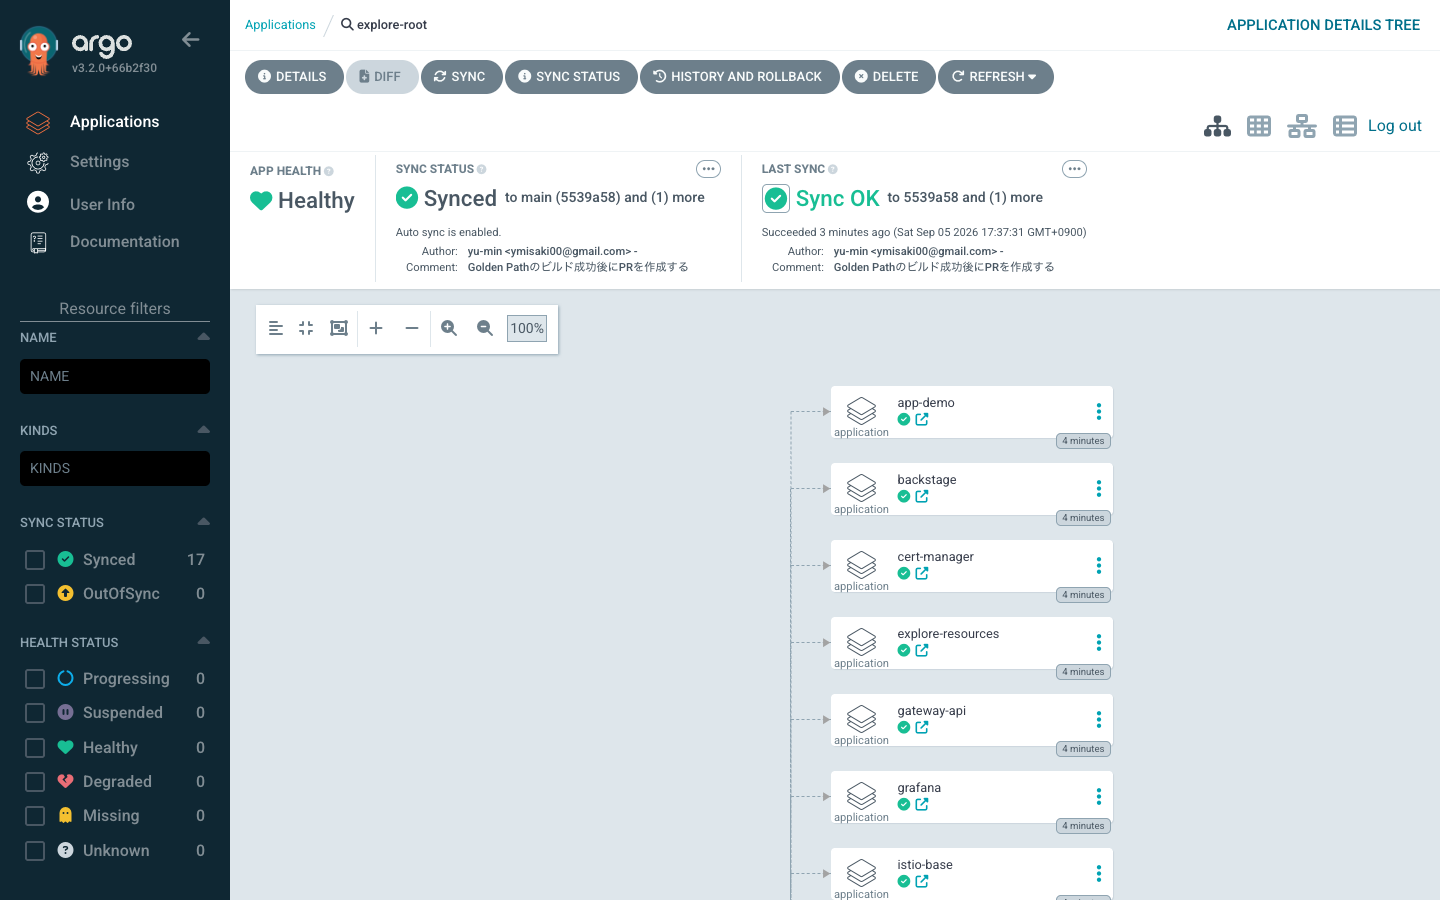
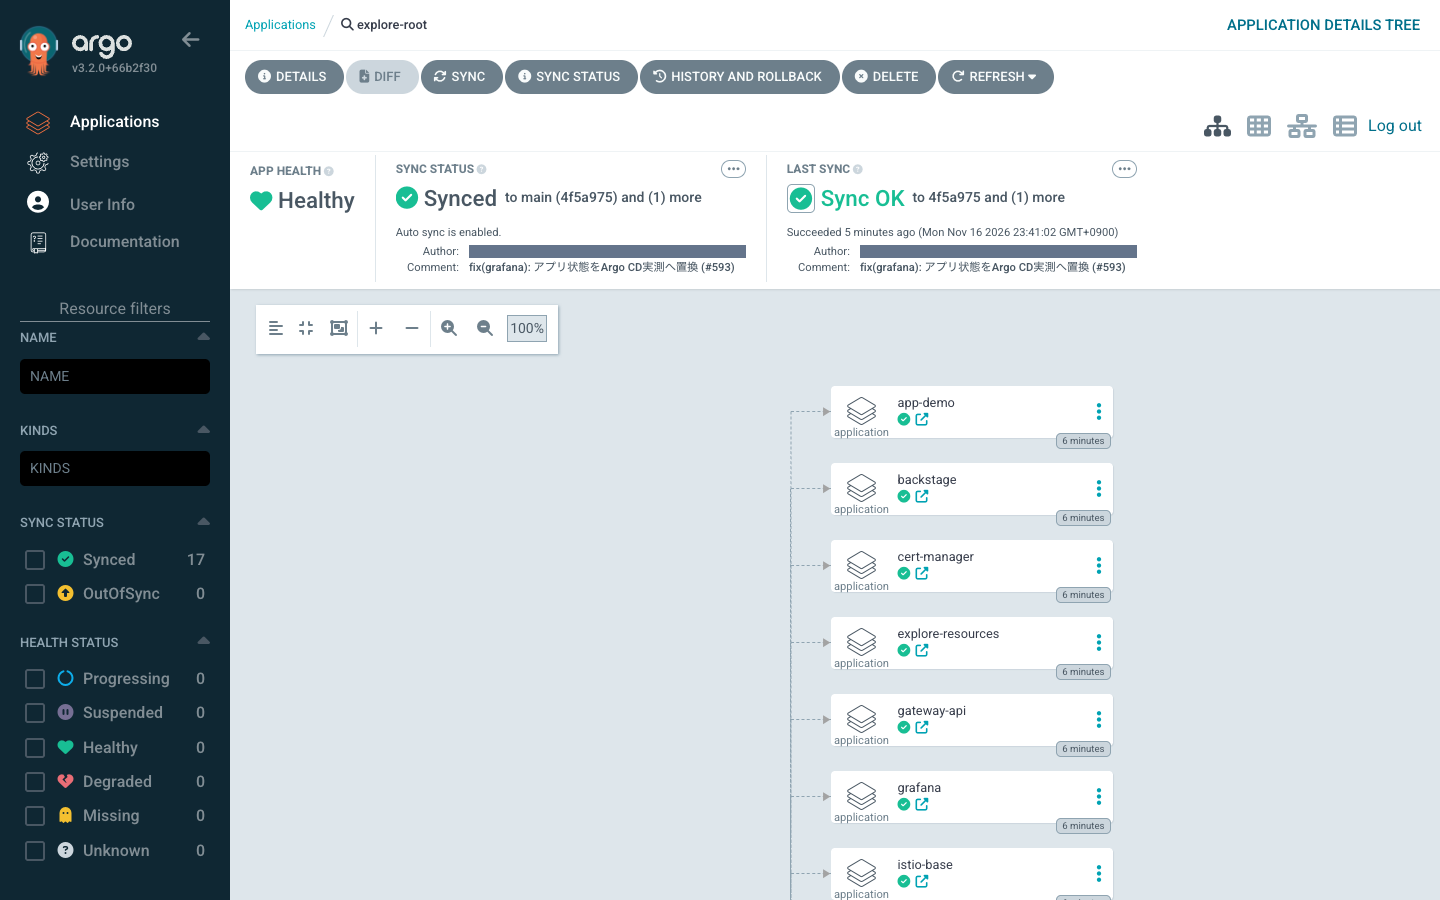
docs: walkthroughの画像を更新

Changed region(s): [[0.2812, 0.1867, 0.7812, 0.3111]]

diff --git a/scripts/explore-screenshots.py b/scripts/explore-screenshots.py
@@ -35,6 +35,7 @@ from __future__ import annotations
 import base64
 import os
 import pathlib
+import re
 import sys
 
 from playwright.sync_api import (
@@ -135,7 +136,15 @@ def shot(page: Page, url: str, name: str, *, wait_for: str | None = None,
         before_shot(page)
 
     path = OUT / f"{name}.png"
-    page.screenshot(path=str(path))
+    # Argo CD displays commit authors from the checkout seeded into Gitea.
+    # Keep personal email addresses out of published screenshots without
+    # changing repository metadata or inventing a replacement author.
+    masks = []
+    if name == "argocd-tree":
+        masks.append(page.get_by_text(re.compile(
+            r"[A-Z0-9._%+-]+@[A-Z0-9.-]+\.[A-Z]{2,}", re.IGNORECASE)))
+        masks.append(page.locator('a[href^="mailto:"]'))
+    page.screenshot(path=str(path), mask=masks, mask_color="#64748b")
     if height or width:
         page.set_viewport_size(VIEWPORT)
     print(f"  {path.relative_to(OUT.parent.parent.parent)}")
